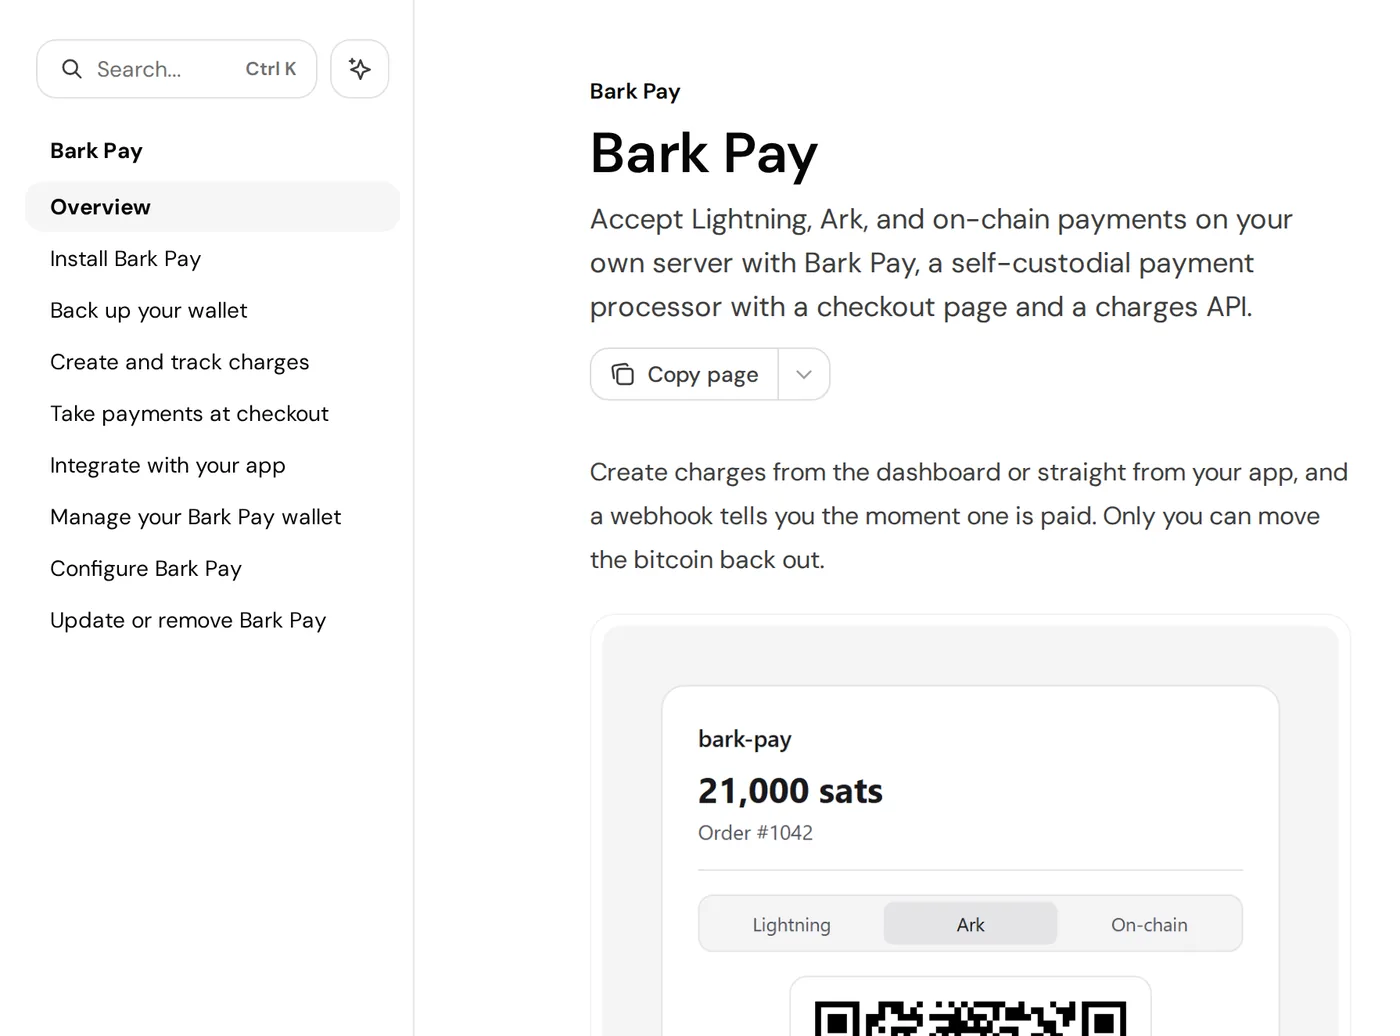
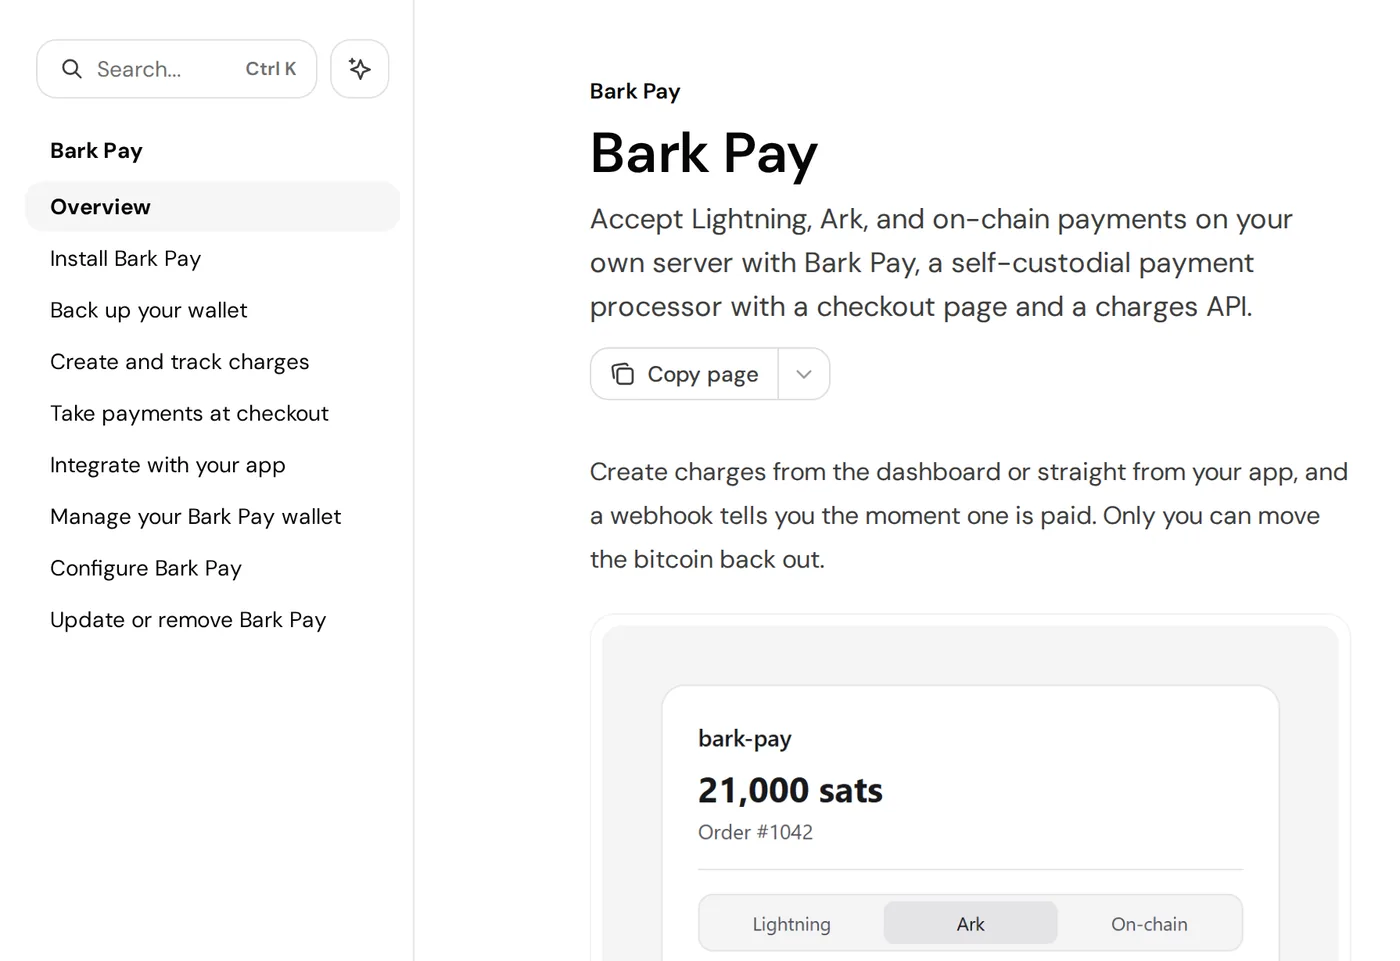
fix(home): fit the trade tabs and crop the Second capture above the QR

diff --git a/_includes/site.css b/_includes/site.css
@@ -804,8 +804,6 @@ html.js .trade-solo { display: block; height: min(108vw, 520px); margin: 4px 0 2
   html.bar-shown .trades-tabs { top: var(--bar-h); }
   .trades-tabs.is-past { opacity: 0; transform: translateY(-10px); pointer-events: none; }
   @media (max-width: 599px) { .trades-tabs { justify-content: space-between; gap: 0; } .trades-tabs a { font-size: clamp(0.8125rem, 3.6vw, 0.9375rem); } }
-  /* petit téléphone : « Développement » tient dans l'écran */
-  @media (max-width: 379px) { .trades-tabs a { padding: 0 4px; font-size: 0.78rem; letter-spacing: -0.01em; } }
   .trades-tabs::-webkit-scrollbar { display: none; }
   .trades-tabs a {
     flex: 0 0 auto;
@@ -818,6 +816,8 @@ html.js .trade-solo { display: block; height: min(108vw, 520px); margin: 4px 0 2
     text-decoration: none;
     transition: background-color var(--t-ui), color var(--t-ui);
   }
+  /* petit téléphone : les trois onglets tiennent dans l'écran (la règle vient après la police des onglets) */
+  @media (max-width: 379px) { .trades-tabs a { padding: 0 3px; font-size: 0.78rem; letter-spacing: -0.01em; } }
   .trades-tabs a.is-current { background: var(--mark); color: var(--ink); }
   /* un onglet touché amène le métier sous la barre d'onglets, pas dessous */
   .trade { scroll-margin-top: 72px; }

diff --git a/_includes/accueil.html b/_includes/accueil.html
@@ -165,11 +165,11 @@
       <figure class="plate" data-reveal="wipe" style="--d:2">
         <picture>
           {%- comment -%} Au téléphone, la colonne de texte seule, pour qu'elle reste lisible. {%- endcomment %}
-          <source media="(max-width: 599px)" srcset="{{ '/assets/img/v3/second-bark-pay-clair-carre-720.webp' | relative_url }}" width="720" height="733">
+          <source media="(max-width: 599px)" srcset="{{ '/assets/img/v3/second-bark-pay-clair-carre-720.webp' | relative_url }}" width="720" height="770">
           <img src="{{ '/assets/img/v3/second-bark-pay-clair-1400.webp' | relative_url }}"
                srcset="{{ '/assets/img/v3/second-bark-pay-clair-800.webp' | relative_url }} 800w, {{ '/assets/img/v3/second-bark-pay-clair-1400.webp' | relative_url }} 1400w"
                sizes="(min-width: 960px) 52vw, 100vw"
-               alt="{{ t.trades.docs_alt }}" width="1400" height="1036" fetchpriority="low" decoding="async">
+               alt="{{ t.trades.docs_alt }}" width="1400" height="961" fetchpriority="low" decoding="async">
         </picture>
         <figcaption>{{ t.trades.docs_caption }}</figcaption>
       </figure>
